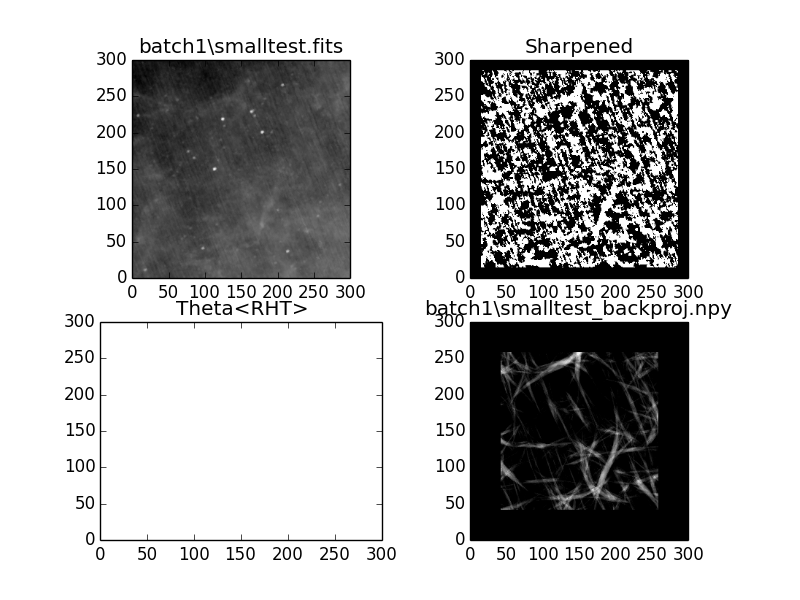
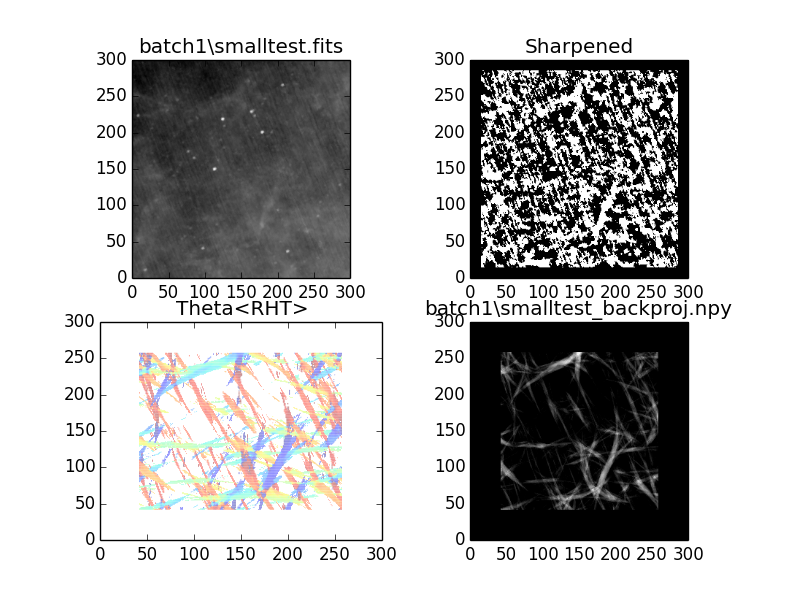
New plotting function works. All is well.
Need to discuss file output options..

Changed region(s): [[0.1562, 0.57, 0.4375, 0.87]]

diff --git a/rht.py b/rht.py
@@ -747,6 +747,7 @@ def viewer(filepath, force=False, wlen=WLEN, frac=FRAC, smr=SMR):
         C[c], U[c], V[c] = theta_rht(hthets[c], uv=True)
     C /= np.pi 
     C *= np.isfinite(C)
+    np.clip(C, 0.0, 1.0, out=C)
 
     #Define Convenience Functions
     def cleanup():
@@ -774,13 +775,9 @@ def viewer(filepath, force=False, wlen=WLEN, frac=FRAC, smr=SMR):
     axes[0][1].set_title('Sharpened')
 
     #### Quiver plot of theta<RHT> across the image
-    #reduction = 2 
-    #axes[1][0].quiver(hi[::reduction], hj[::reduction], U[::reduction], V[::reduction], C[::reduction], pivot='middle')
-    error = 0.1
-    lowrange = np.logical_and(np.greater(C, error), np.less(C, 0.5-error))
-    highrange = np.logical_and(np.greater(C, 0.5+error), np.less(C, 1.0-error)) 
-    reduction = np.nonzero( np.logical_or(lowrange, highrange))
-    axes[1][0].quiver(hi[reduction], hj[reduction], U[reduction], V[reduction], C[reduction], pivot='middle')
+    error = 0.0001
+    reduction = np.nonzero( [0.0+error <c< 0.5-error or 0.5+error <c< 1.0-error for c in C] )
+    axes[1][0].quiver(hi[reduction], hj[reduction], U[reduction], V[reduction], C[reduction], units='xy', pivot='middle', scale=1.0)
     axes[1][0].set_ylim([0, datay])
     axes[1][0].set_title('Theta<RHT>')
 
@@ -791,17 +788,22 @@ def viewer(filepath, force=False, wlen=WLEN, frac=FRAC, smr=SMR):
 
     #---------------------------------------------------------------------- PLOT 2
     print 'Backprojecting...'
+
+    #### Log-scale plot of original image data
     plt.subplot(121)
     plt.imshow(log, cmap='gray')
     plt.ylim(0, datay)
     plt.title(filepath)
+
+    #### Backprojection of RHT data
     plt.subplot(122)
-    plt.contour(backproj)
-    #plt.imshow(backproj, cmap='binary')
+    plt.contour(backproj) #plt.imshow(backproj, cmap='binary')
     plt.ylim(0, datay)
     plt.title(backproj_filename)
+    
+    #### Save and Clean up
+    plt.savefig(filename + '_result.png')
     plt.show()
-    #___________________________________TODO SAVE PLOT
     cleanup()
     
     
